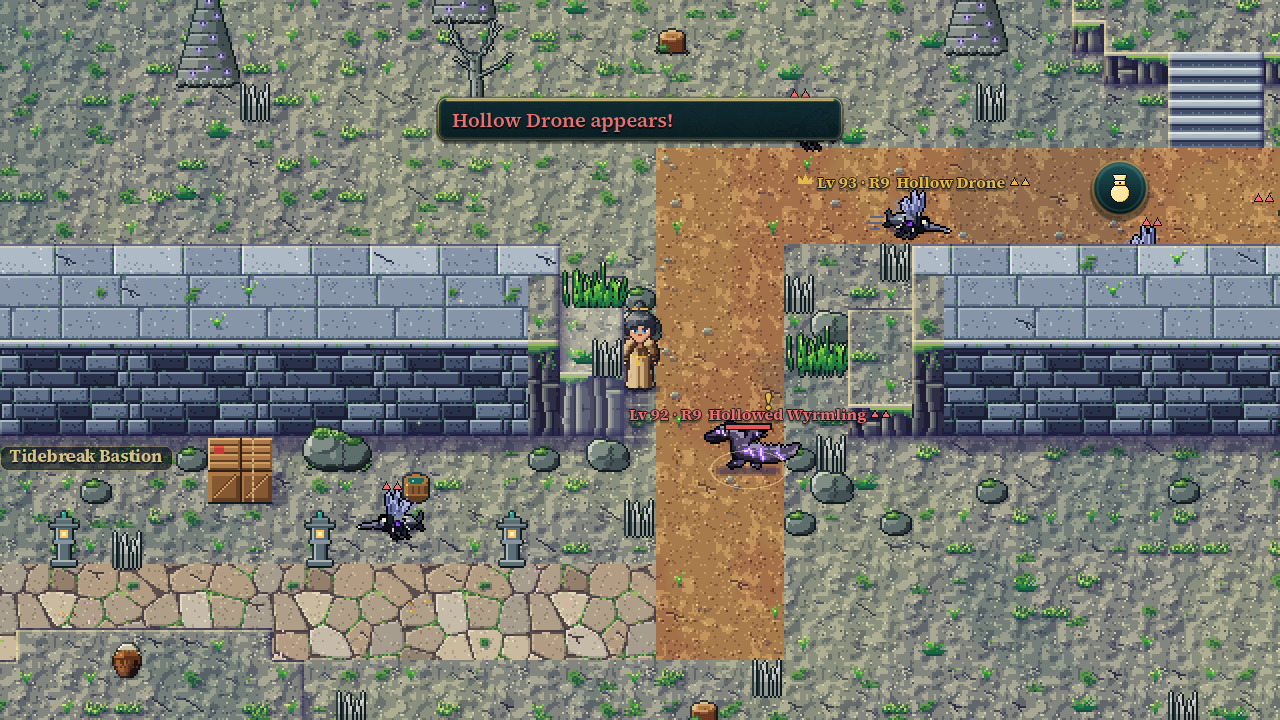
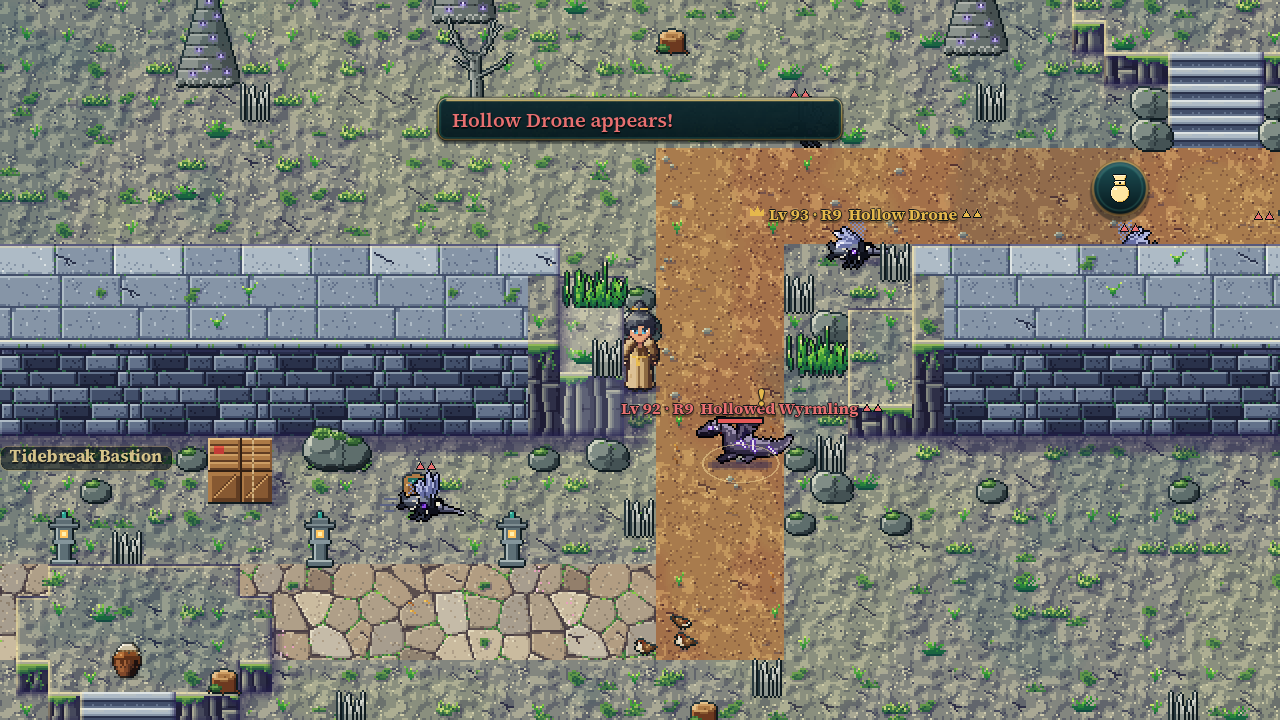
R5: the Breach's pictures retaken with its closed-cheek flights; the doc and the changelog on the frontier check
Claude-Session: https://claude.ai/code/session_01M721JCQMMbc2qs2YMLxRch

diff --git a/JadeRiver/docs/architecture/room_engine.md b/JadeRiver/docs/architecture/room_engine.md
@@ -664,6 +664,8 @@ R4's, the capture's x2 copies of the world alone are not kept.
   exactly symmetric (a round shape wears with the room's seed), and `stair_with_cheeks()`, R3's flight between cheeks.
 - R4's rule holds: a raised thing stands at least its level in rows from the north edge. Gu's strongbox is on the
   strongroom's dais at row 3, level 3.
+- The Breach's two outcrops are climbed by R4's `flights`, their cheeks closed by boulders. With R2's open-sided
+  flight, `rules_tests`' route tour stalled coming down from the north one's crate.
 
 **An engine rule.** A layout's `event` gives the cells of the room's own event (`TopdownRoom.merge_def`), or of a set
 piece begun in it (`TopdownRoom.grid_event`). The checks compared them with the room's own event only. The Greyfall
@@ -714,7 +716,10 @@ The ways to rooms with no layout are gated: the Alliance Gate, the Citadel's ski
   alliance banners (the sects' jade and cloud banners stand in), the paifang's roof.
 
 **The frontier now** (R5): Gu's Warehouse is on the grid. In Act I the gate stands only at the Ascension Gate's way
-up to the Azure Expanse (Act II). Past it, the Sect War's and the Presence Trial's ways back lead to the Nine Peaks'
+up to the Azure Expanse (Act II). From the Marsh Edge no way off the grid is in walking reach any more. So
+`topdown_tutorial`'s gate check now sets the walk down at the first such way in a room on the grid that is not an
+instance, by the layouts' names (the Ascension Gate's), and checks its gate there. While one is in reach it still
+walks to the nearest. Past it, the Sect War's and the Presence Trial's ways back lead to the Nine Peaks'
 rooms, the Bastion's skiff to the Citadel, and the Drone Hive's way east to the Nebula Deep. Those rooms have no
 layout, so the four ways are gated. The Tidebreak Front's own rooms join each other on the grid.
 

diff --git a/JadeRiver/docs/CHANGELOG.md b/JadeRiver/docs/CHANGELOG.md
@@ -37,6 +37,10 @@ in them on the grid.
     Holds, The Presence Trial, The Tide Breaks (the lantern relit and drained on the grid) and Greyfall's stand. It walks
     the grey fields to the Drone Hive and back. Each room is built by the view and walked by auto-path.
   - The `room_engine` capture set has R5's views (`docs/architecture/room_engine/r5/`).
+  - One frontier check moved. No way off the grid is in walking reach from the Marsh Edge now, so `topdown_tutorial`
+    sets its walk down at the first one there is (the Ascension Gate's way up) and checks its gate there.
+  - `rules_tests`' route tour walks the ten rooms. It found a stall on the Breach's outcrop flight, now climbed by
+    R4's closed-cheek `flights`.
 - **Still to do.** Most of these rooms' foes have no top-down sheet. The Reflection's heart demons still spawn at the
   side view's points (T1's wave work). The Front's light follows the clock, not the side view's night. Details are in
   the doc.
